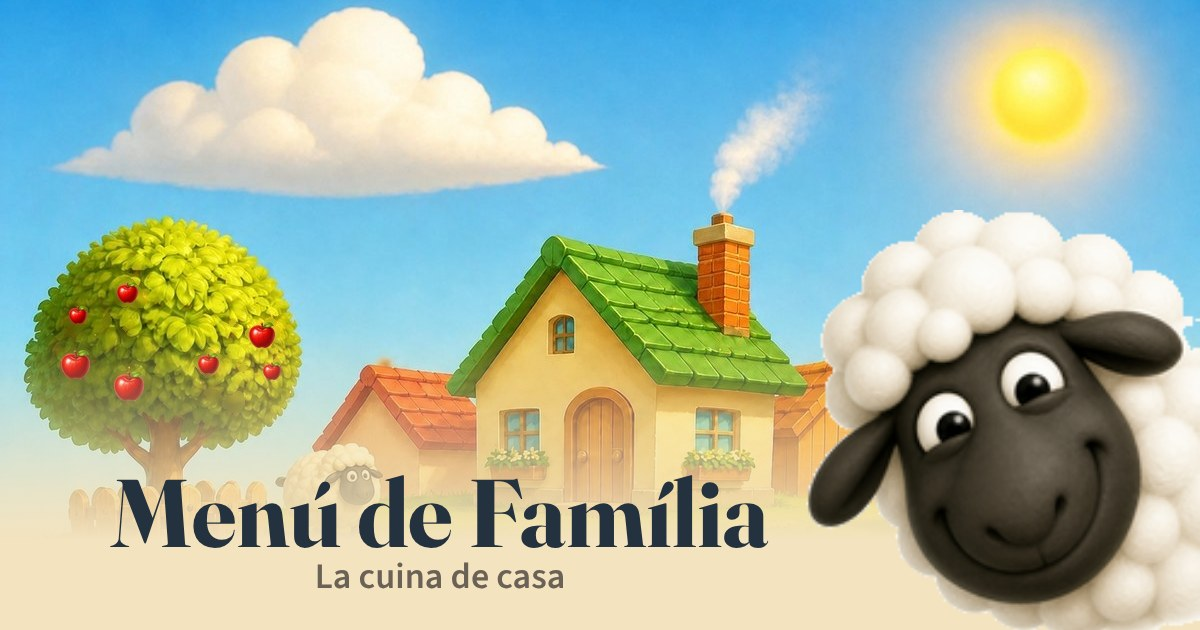
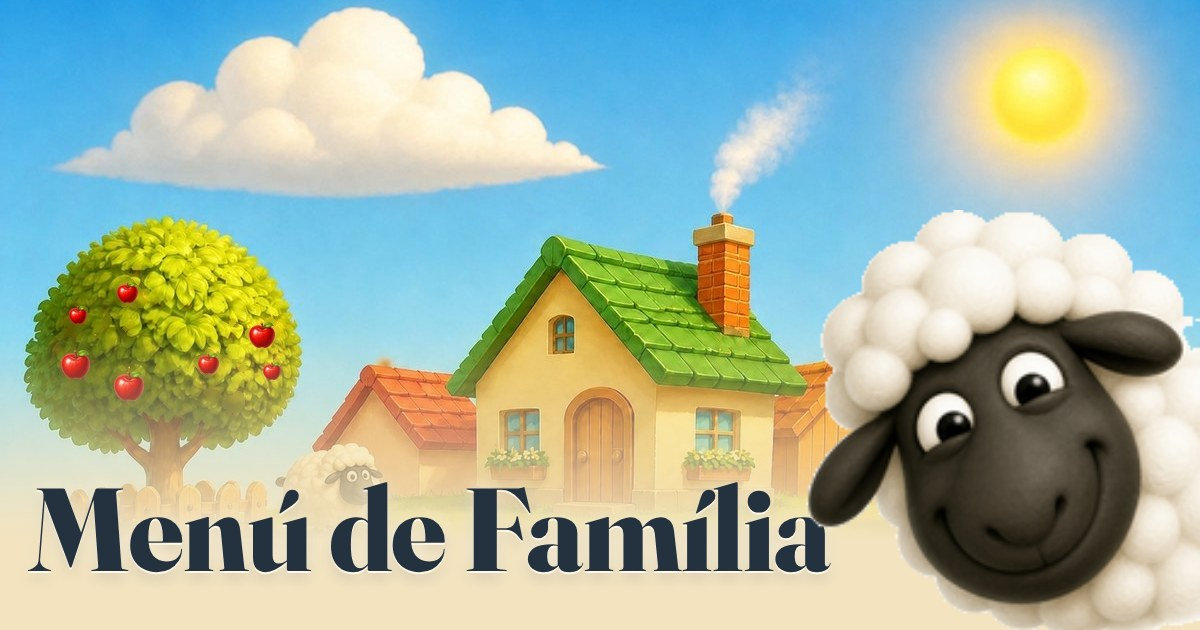
Caràtula de WhatsApp: sense subtítol i títol més gran
Claude-Session: https://claude.ai/code/session_01U8Mmhj3w1kDHbZEJg4YuWh

Changed region(s): [[0.0308, 0.754, 0.7092, 0.9349]]

diff --git a/nova/index.html b/nova/index.html
@@ -480,7 +480,7 @@ html,body{-webkit-touch-callout:none;-webkit-user-select:none;user-select:none;-
 
 <script>/* xarxa de seguretat: si l'app no arrenca, botó per actualitzar */setTimeout(function(){var a=document.getElementById("app");if(a&&!a.innerHTML.trim()){a.innerHTML='<div style="padding:40px 20px;text-align:center;font:600 17px system-ui"><p>No s\'ha pogut obrir l\'app.</p><button id="sosup" style="font:700 17px system-ui;padding:12px 22px;border-radius:999px;border:0;background:#17599a;color:#fff">Actualitza</button></div>';document.getElementById("sosup").onclick=function(){(window.caches?caches.keys().then(function(k){return Promise.all(k.map(function(x){return caches.delete(x)}))}):Promise.resolve()).then(function(){location.reload()})};}},2500);</script>
 <script>
-const APPV="1793450535";let UPD=0,UPS=0;
+const APPV="1793450593";let UPD=0,UPS=0;
 
 const IC={"docs": "<svg viewBox=\"0 0 40 40\" width=\"22\" height=\"22\" aria-hidden=\"true\"><path d=\"M9 4h15l8 8v23a2 2 0 0 1-2 2H9a2 2 0 0 1-2-2V6a2 2 0 0 1 2-2z\" fill=\"#fff\" stroke=\"#5b6b7a\" stroke-width=\"1.5\"/><path d=\"M24 4v8h8\" fill=\"#e3e8ee\" stroke=\"#5b6b7a\" stroke-width=\"1.5\" stroke-linejoin=\"round\"/><circle cx=\"27\" cy=\"29\" r=\"8.5\" fill=\"#3f8a3a\" stroke=\"#fff\" stroke-width=\"1.6\"/><path d=\"M27 33.5v-9M23 28l4-4 4 4\" fill=\"none\" stroke=\"#fff\" stroke-width=\"2.2\" stroke-linecap=\"round\" stroke-linejoin=\"round\"/><path d=\"M12 17h10M12 21h7\" stroke=\"#9aa6b2\" stroke-width=\"1.6\" stroke-linecap=\"round\"/></svg>", "receptari": "<svg viewBox=\"0 0 40 40\" width=\"22\" height=\"22\" aria-hidden=\"true\"><path d=\"M6 7c5-2 10-2 14 1v27c-4-3-9-3-14-1z\" fill=\"#fff6e3\" stroke=\"#8a5a2b\" stroke-width=\"1.4\" stroke-linejoin=\"round\"/><path d=\"M34 7c-5-2-10-2-14 1v27c4-3 9-3 14-1z\" fill=\"#fff6e3\" stroke=\"#8a5a2b\" stroke-width=\"1.4\" stroke-linejoin=\"round\"/><path d=\"M4 9v26c6-2 11-2 16 1 5-3 10-3 16-1V9\" fill=\"none\" stroke=\"#c8352b\" stroke-width=\"2.4\" stroke-linejoin=\"round\"/><path d=\"M10 14h6M10 18h6M24 14h6M24 18h5\" stroke=\"#c9a46a\" stroke-width=\"1.5\" stroke-linecap=\"round\"/><path d=\"M27 24c0-2 3-2 3 0 0 2-3 3.5-3 3.5s-3-1.5-3-3.5c0-2 3-2 3 0z\" fill=\"#e0533f\"/></svg>", "menu": "<svg viewBox=\"0 0 40 40\" width=\"22\" height=\"22\" aria-hidden=\"true\"><rect x=\"5\" y=\"7\" width=\"30\" height=\"28\" rx=\"3\" fill=\"#fff\" stroke=\"#2f74b5\" stroke-width=\"1.5\"/><path d=\"M5 10a3 3 0 0 1 3-3h24a3 3 0 0 1 3 3v4H5z\" fill=\"#2f74b5\"/><path d=\"M12 4v6M28 4v6\" stroke=\"#1f4f80\" stroke-width=\"2.2\" stroke-linecap=\"round\"/><circle cx=\"20\" cy=\"25\" r=\"6.5\" fill=\"#f3e3c4\" stroke=\"#c9a46a\" stroke-width=\"1.3\"/><circle cx=\"20\" cy=\"25\" r=\"3.8\" fill=\"#fff\" stroke=\"#e2cfa6\" stroke-width=\"1\"/><path d=\"M10.5 20v10M9 20v3.5a1.5 1.5 0 0 0 3 0V20M29.5 20c1.6 0 1.8 3 1.8 4.6 0 1-.8 1.4-1.8 1.4V30\" fill=\"none\" stroke=\"#8a93a0\" stroke-width=\"1.2\" stroke-linecap=\"round\"/></svg>", "treball": "<svg viewBox=\"0 0 40 40\" width=\"22\" height=\"22\" aria-hidden=\"true\"><rect x=\"8\" y=\"6\" width=\"24\" height=\"30\" rx=\"3\" fill=\"#c98a4b\" stroke=\"#7a4a1e\" stroke-width=\"1.4\"/><rect x=\"11\" y=\"10\" width=\"18\" height=\"23\" rx=\"1.5\" fill=\"#fff\"/><rect x=\"15\" y=\"3.5\" width=\"10\" height=\"5\" rx=\"1.5\" fill=\"#9aa0a6\" stroke=\"#6b7177\" stroke-width=\"1\"/><path d=\"M14 16l2 2 3.5-3.5M14 23l2 2 3.5-3.5\" fill=\"none\" stroke=\"#3f8a3a\" stroke-width=\"1.9\" stroke-linecap=\"round\" stroke-linejoin=\"round\"/><path d=\"M22 17h5M22 24h5M14 29.5h13\" stroke=\"#b9bfc6\" stroke-width=\"1.6\" stroke-linecap=\"round\"/></svg>", "despesa": "<svg viewBox=\"0 0 40 40\" width=\"22\" height=\"22\" aria-hidden=\"true\"><path d=\"M8 4h20v31l-2.5-2-2.5 2-2.5-2-2.5 2-2.5-2-2.5 2-2.5-2L8 35z\" fill=\"#fff\" stroke=\"#7a838b\" stroke-width=\"1.4\" stroke-linejoin=\"round\"/><path d=\"M12 10h12M12 14h9M12 18h12\" stroke=\"#b9bfc6\" stroke-width=\"1.6\" stroke-linecap=\"round\"/><circle cx=\"27\" cy=\"27\" r=\"8\" fill=\"#f2c14a\" stroke=\"#c48a1a\" stroke-width=\"1.5\"/><path d=\"M29.6 23.6a4 4 0 1 0 0 6.8M22.8 25.8h5.4M22.8 28.2h5.4\" fill=\"none\" stroke=\"#8a5a10\" stroke-width=\"1.6\" stroke-linecap=\"round\"/></svg>", "hudsilo": "<svg aria-hidden=\"true\" width=\"30\" height=\"30\" viewBox=\"0 0 64 64\"><defs><linearGradient id=\"hsr\" x1=\"0\" x2=\"1\"><stop offset=\"0\" stop-color=\"#8f1a12\"/><stop offset=\".28\" stop-color=\"#d8392a\"/><stop offset=\".55\" stop-color=\"#e9503d\"/><stop offset=\"1\" stop-color=\"#9e2016\"/></linearGradient><linearGradient id=\"hsroof\" x1=\"0\" x2=\"1\"><stop offset=\"0\" stop-color=\"#3f3029\"/><stop offset=\".45\" stop-color=\"#7b6556\"/><stop offset=\"1\" stop-color=\"#4a3a31\"/></linearGradient><linearGradient id=\"hsgr\" x1=\"0\" y1=\"0\" x2=\"0\" y2=\"1\"><stop offset=\"0\" stop-color=\"#f7d36a\"/><stop offset=\".25\" stop-color=\"#e3a43a\"/><stop offset=\"1\" stop-color=\"#b8711e\"/></linearGradient><linearGradient id=\"hsmet\" x1=\"0\" x2=\"1\"><stop offset=\"0\" stop-color=\"#5d666e\"/><stop offset=\".5\" stop-color=\"#b9c2ca\"/><stop offset=\"1\" stop-color=\"#626b73\"/></linearGradient><linearGradient id=\"hsst\" x1=\"0\" y1=\"0\" x2=\"0\" y2=\"1\"><stop offset=\"0\" stop-color=\"#e4d8c6\"/><stop offset=\"1\" stop-color=\"#a99880\"/></linearGradient></defs><ellipse cx=\"32\" cy=\"58.5\" rx=\"17\" ry=\"4.2\" fill=\"url(#hsst)\" stroke=\"#7d6c56\" stroke-width=\"1.2\"/><path d=\"M17 17h30l-2.6 40.6c-6.2 2.2-18.6 2.2-24.8 0z\" fill=\"url(#hsr)\" stroke=\"#5f130c\" stroke-width=\"1.5\" stroke-linejoin=\"round\"/><path d=\"M22.4 18.5l1 40M27.6 18.6l.4 40.6M32.8 18.6v40.8M38 18.6l-.4 40.6M43.2 18.5l-1 40\" stroke=\"#7d160e\" stroke-width=\"1\" opacity=\".75\"/><path d=\"M20.2 18.8l1.6 38.4\" stroke=\"#f47b66\" stroke-width=\"1.6\" opacity=\".7\"/><path d=\"M17.3 27.5c8.6 2.8 20.8 2.8 29.4 0M18.3 44c8 2.6 19.4 2.6 27.4 0\" fill=\"none\" stroke=\"#5f130c\" stroke-width=\"3.4\" opacity=\".35\"/><path d=\"M17.3 27c8.6 2.8 20.8 2.8 29.4 0M18.3 43.5c8 2.6 19.4 2.6 27.4 0\" fill=\"none\" stroke=\"#fbf6ee\" stroke-width=\"2.4\"/><path d=\"M28.4 21.5h7.2l-1.2 33h-4.8z\" fill=\"#fbf6ee\" stroke=\"#6b1a10\" stroke-width=\"1\"/><path d=\"M29.9 23.2h4.2l-1 29.6h-2.2z\" fill=\"#5d120b\"/><path d=\"M30.4 36.5h3.4l-.7 16.3h-2.2z\" fill=\"url(#hsgr)\"/><path d=\"M30.2 37c.3-4.4 3.5-4.4 3.8 0z\" fill=\"#f7d36a\" stroke=\"#c48a26\" stroke-width=\".5\"/><circle cx=\"31.4\" cy=\"34.8\" r=\".5\" fill=\"#fff3c4\"/><circle cx=\"32.8\" cy=\"35.6\" r=\".4\" fill=\"#fff3c4\"/><path d=\"M19.5 41l-2.6.6.4 14.8M44.5 41l2.6.6-.4 14.8\" fill=\"none\" stroke=\"url(#hsmet)\" stroke-width=\"2.4\" stroke-linecap=\"round\" stroke-linejoin=\"round\"/><rect x=\"15.6\" y=\"55.3\" width=\"3.4\" height=\"2\" rx=\".6\" fill=\"#7d868f\" stroke=\"#3f464c\" stroke-width=\".6\"/><rect x=\"45\" y=\"55.3\" width=\"3.4\" height=\"2\" rx=\".6\" fill=\"#7d868f\" stroke=\"#3f464c\" stroke-width=\".6\"/><path d=\"M46 21.4h4.4v3.4\" fill=\"none\" stroke=\"url(#hsmet)\" stroke-width=\"2.2\" stroke-linecap=\"round\"/><path d=\"M50.4 24.8c1.4 4 .6 8 -1 10\" fill=\"none\" stroke=\"#a87c4f\" stroke-width=\".9\"/><path d=\"M32 3.5 14.2 17.4c5 2.4 30.6 2.4 35.6 0z\" fill=\"url(#hsroof)\" stroke=\"#2a201b\" stroke-width=\"1.5\" stroke-linejoin=\"round\"/><path d=\"M32 4.4l-7.6 13.8M32 4.4l7.2 13.8\" stroke=\"#8d7766\" stroke-width=\".8\" opacity=\".6\"/><path d=\"M21.6 11l6.2-2.2 2.4 4.2-6.4 2.2z\" fill=\"#d3d9de\" stroke=\"#5f676e\" stroke-width=\"1\"/><path d=\"M24.4 11.6l2.4-.8\" stroke=\"#5f676e\" stroke-width=\"1\" stroke-linecap=\"round\"/></svg>", "shopico": "<svg aria-hidden=\"true\" width=\"34\" height=\"34\" viewBox=\"0 0 64 64\"><defs><linearGradient id=\"bw\" x1=\"0\" x2=\"0\" y1=\"0\" y2=\"1\"><stop offset=\"0\" stop-color=\"#9c5f30\"/><stop offset=\"1\" stop-color=\"#6a3b19\"/></linearGradient><linearGradient id=\"bp\" x1=\"0\" x2=\"1\"><stop offset=\"0\" stop-color=\"#6f4120\"/><stop offset=\".5\" stop-color=\"#a86a35\"/><stop offset=\"1\" stop-color=\"#6f4120\"/></linearGradient><linearGradient id=\"bc\" x1=\"0\" x2=\"0\" y1=\"0\" y2=\"1\"><stop offset=\"0\" stop-color=\"#e4b47a\"/><stop offset=\"1\" stop-color=\"#b9824a\"/></linearGradient><linearGradient id=\"bcin\" x1=\"0\" x2=\"0\" y1=\"0\" y2=\"1\"><stop offset=\"0\" stop-color=\"#7a4a24\"/><stop offset=\"1\" stop-color=\"#a86e3c\"/></linearGradient><linearGradient id=\"awr\" x1=\"0\" x2=\"0\" y1=\"0\" y2=\"1\"><stop offset=\"0\" stop-color=\"#f05a48\"/><stop offset=\"1\" stop-color=\"#c62a20\"/></linearGradient><linearGradient id=\"aww\" x1=\"0\" x2=\"0\" y1=\"0\" y2=\"1\"><stop offset=\"0\" stop-color=\"#ffffff\"/><stop offset=\"1\" stop-color=\"#e9ddd0\"/></linearGradient><radialGradient id=\"ar\" cx=\".35\" cy=\".35\" r=\".7\"><stop offset=\"0\" stop-color=\"#ff8a7a\"/><stop offset=\".5\" stop-color=\"#e3261c\"/><stop offset=\"1\" stop-color=\"#9c120c\"/></radialGradient><radialGradient id=\"ag\" cx=\".35\" cy=\".35\" r=\".7\"><stop offset=\"0\" stop-color=\"#d9ff9a\"/><stop offset=\".5\" stop-color=\"#6cc43a\"/><stop offset=\"1\" stop-color=\"#2f7a1a\"/></radialGradient><linearGradient id=\"bk\" x1=\"0\" x2=\"1\"><stop offset=\"0\" stop-color=\"#7a4a24\"/><stop offset=\".5\" stop-color=\"#c0814a\"/><stop offset=\"1\" stop-color=\"#7a4a24\"/></linearGradient></defs><path d=\"M4 50l10-5h40l4 6-10 7H8z\" fill=\"url(#bw)\" stroke=\"#3f230e\" stroke-width=\"1.3\" stroke-linejoin=\"round\"/><path d=\"M12 47l-3 9M20 46l-3 11M28 46l-2 12M36 46l-1 12M44 46l1 12M52 47l2 9\" stroke=\"#4a2a12\" stroke-width=\".9\" opacity=\".7\"/><rect x=\"49\" y=\"12\" width=\"3.6\" height=\"40\" rx=\"1\" fill=\"url(#bp)\" stroke=\"#3f230e\" stroke-width=\"1.1\"/><rect x=\"13.2\" y=\"18\" width=\"3.4\" height=\"28\" rx=\"1\" fill=\"url(#bp)\" stroke=\"#3f230e\" stroke-width=\"1.1\"/><path d=\"M16 40h32v9H17z\" fill=\"#a8622e\" stroke=\"#4a2a12\" stroke-width=\"1.1\"/><path d=\"M17 44.5h31\" stroke=\"#7a431c\" stroke-width=\".9\"/><path d=\"M13 37.5l34-5 4 7.6-35 5.4z\" fill=\"#f1dfbd\" stroke=\"#6b3f17\" stroke-width=\"1.1\" stroke-linejoin=\"round\"/><path d=\"M15 36.5l31.6-4.8 3 6-32 4.9z\" fill=\"url(#bc)\" stroke=\"#5e3614\" stroke-width=\"1.1\" stroke-linejoin=\"round\"/><path d=\"M18.4 37.6l9-1.4 1 2.6-9 1.4zM29.4 35.9l9-1.4 1 2.6-9 1.4zM40.2 34.3l6-.9 1.1 2.6-6.1.9zM19.6 39.9l9-1.4.9 1.4-9 1.4zM30.6 38.2l9-1.4.9 1.4-9 1.4z\" fill=\"url(#bcin)\"/><path d=\"M27.4 36.2l2.1 4.3M38.4 34.5l2 4.3\" stroke=\"#5e3614\" stroke-width=\"1.2\"/><path d=\"M8.5 15.5C14 9 38 5.5 54 9.5l1.6 5\" fill=\"none\" stroke=\"#7a1e14\" stroke-width=\"1.4\"/><path d=\"M8.5 15.5 10 24.5c2.4 2 5.2 1.6 6.4-.6 2.2 2.1 5 1.8 6.3-.5 2.2 2 5 1.7 6.2-.6 2.2 2 5 1.6 6.2-.6 2.2 1.9 5 1.6 6.1-.7 2.2 1.9 4.9 1.5 6-.8 2.1 1.7 4.7 1.3 5.6-1L54 9.5C38 5.5 14 9 8.5 15.5z\" fill=\"url(#aww)\" stroke=\"#7a1e14\" stroke-width=\"1.4\" stroke-linejoin=\"round\"/><path d=\"M10 24.5c2.4 2 5.2 1.6 6.4-.6l-1.4-11.6-6.5 3.2zM22.7 23.4c2.2 2 5 1.7 6.2-.6l-1.2-13-6.7 1.4zM35.1 22.2c2.2 1.9 5 1.6 6.1-.7l-.6-13.1-6.6.4zM47.2 20.7c2.1 1.7 4.7 1.3 5.6-1L54 9.5l-6.4-1.1z\" fill=\"url(#awr)\"/><path d=\"M10.5 16.4c8-4.2 28-6 42.4-3.4\" fill=\"none\" stroke=\"#fff\" stroke-width=\"1\" opacity=\".55\"/><circle cx=\"31\" cy=\"7.3\" r=\"1.3\" fill=\"#a9b2ba\" stroke=\"#5f676e\" stroke-width=\".6\"/><circle cx=\"53.6\" cy=\"9.6\" r=\"1.3\" fill=\"#a9b2ba\" stroke=\"#5f676e\" stroke-width=\".6\"/><path d=\"M2.5 48.5h12l-1.4 9.5H4z\" fill=\"url(#bk)\" stroke=\"#4a2a12\" stroke-width=\"1.1\"/><path d=\"M3.2 52.3h10.6\" stroke=\"#9aa3ab\" stroke-width=\"1.6\"/><circle cx=\"5.6\" cy=\"47.2\" r=\"2.6\" fill=\"url(#ag)\"/><circle cx=\"9.4\" cy=\"46.4\" r=\"2.7\" fill=\"url(#ag)\"/><circle cx=\"12.3\" cy=\"47.6\" r=\"2.3\" fill=\"url(#ag)\"/><path d=\"M47 51.5h12l-1.4 9.5h-9.2z\" fill=\"url(#bk)\" stroke=\"#4a2a12\" stroke-width=\"1.1\"/><path d=\"M47.7 55.3h10.6\" stroke=\"#9aa3ab\" stroke-width=\"1.6\"/><circle cx=\"50.2\" cy=\"50.2\" r=\"2.6\" fill=\"url(#ar)\"/><circle cx=\"54\" cy=\"49.4\" r=\"2.7\" fill=\"url(#ar)\"/><circle cx=\"56.8\" cy=\"50.6\" r=\"2.3\" fill=\"url(#ar)\"/><path d=\"M54 46.8l.4-1.4\" stroke=\"#4a2a12\" stroke-width=\".8\"/></svg>", "veiico": "<svg aria-hidden=\"true\" width=\"32\" height=\"32\" viewBox=\"0 0 64 64\"><path d=\"M2 47c10-5 21-6 30-4s20 3 30-2v19H2z\" fill=\"#7fb944\"/><g stroke=\"#6b4423\" stroke-width=\"1.8\" stroke-linejoin=\"round\"><rect x=\"5\" y=\"32\" width=\"15\" height=\"14\" rx=\"1\" fill=\"#fbf1dc\"/><path d=\"M3 33.5 12.5 22 22 33.5z\" fill=\"#d1453b\"/><rect x=\"44\" y=\"32\" width=\"15\" height=\"14\" rx=\"1\" fill=\"#fbf1dc\"/><path d=\"M42 33.5 51.5 22 61 33.5z\" fill=\"#eaa63a\"/><rect x=\"38\" y=\"15\" width=\"4.5\" height=\"9\" fill=\"#a8562c\"/><rect x=\"19\" y=\"28\" width=\"26\" height=\"21\" rx=\"1.2\" fill=\"#fffaf0\"/><path d=\"M16 30 32 14l16 16z\" fill=\"#6e8c3c\"/><rect x=\"28.5\" y=\"38\" width=\"7\" height=\"11\" rx=\"1\" fill=\"#9a5a2b\"/></g><rect x=\"22.5\" y=\"32\" width=\"4.5\" height=\"4\" fill=\"#8cc7ec\"/><rect x=\"37\" y=\"32\" width=\"4.5\" height=\"4\" fill=\"#8cc7ec\"/></svg>", "crea": "<svg viewBox=\"0 0 40 40\" width=\"22\" height=\"22\" aria-hidden=\"true\"><path d=\"M8 4h15l7 7v24a2 2 0 0 1-2 2H8a2 2 0 0 1-2-2V6a2 2 0 0 1 2-2z\" fill=\"#fff\" stroke=\"#5b6b7a\" stroke-width=\"1.5\"/><path d=\"M23 4v7h7\" fill=\"#e3e8ee\" stroke=\"#5b6b7a\" stroke-width=\"1.5\" stroke-linejoin=\"round\"/><path d=\"M11 15h11M11 19h12M11 23h7\" stroke=\"#9aa6b2\" stroke-width=\"1.6\" stroke-linecap=\"round\"/><path d=\"M20 30 31 19l4 4-11 11z\" fill=\"#eaa63a\" stroke=\"#8a5a2b\" stroke-width=\"1.3\" stroke-linejoin=\"round\"/><path d=\"M31 19l1.6-1.6a1.4 1.4 0 0 1 2 0l2 2a1.4 1.4 0 0 1 0 2L35 23z\" fill=\"#e0533f\" stroke=\"#8a5a2b\" stroke-width=\"1.3\" stroke-linejoin=\"round\"/><path d=\"M20 30l4 4-6 2z\" fill=\"#f3e3c4\" stroke=\"#8a5a2b\" stroke-width=\"1.3\" stroke-linejoin=\"round\"/><path d=\"M18.6 34.4 18 36l1.6-.6z\" fill=\"#3d3d3d\"/></svg>", "qc": "<svg viewBox=\"0 0 40 40\" width=\"22\" height=\"22\" aria-hidden=\"true\"><path d=\"M15.5 19 20.3 7.2l3.3 1.3-3.4 10.8z\" fill=\"#eaa63a\" stroke=\"#a8562c\" stroke-width=\"1.3\" stroke-linejoin=\"round\"/><path d=\"M18 13.5l2 .8M17 16l1.8.7\" stroke=\"#a8562c\" stroke-width=\"1\" stroke-linecap=\"round\"/><path d=\"M21.5 7.6c-.9-2.6.2-4.3 1.6-4.9.6 1.8.4 3.6-.9 5.2zM22.3 8c1.6-2 3.6-2.2 5-1.4-1.3 1.3-3 1.9-5 1.4z\" fill=\"#7fb944\" stroke=\"#4f7a2a\" stroke-width=\"1\" stroke-linejoin=\"round\"/><path d=\"M25.5 19c-.3-4.2 1.9-7.2 5.6-8.4-.1 3.8-2 6.8-5.6 8.4z\" fill=\"#7fb944\" stroke=\"#4f7a2a\" stroke-width=\"1.2\" stroke-linejoin=\"round\"/><path d=\"M7 20h26v8a7 7 0 0 1-7 7H14a7 7 0 0 1-7-7z\" fill=\"#d8392a\" stroke=\"#8f1a12\" stroke-width=\"1.5\" stroke-linejoin=\"round\"/><path d=\"M4.5 19.5h31\" stroke=\"#8f1a12\" stroke-width=\"2.6\" stroke-linecap=\"round\"/><path d=\"M7 23.5H3.5M33 23.5h3.5\" stroke=\"#8f1a12\" stroke-width=\"2.4\" stroke-linecap=\"round\"/><path d=\"M11 24v4.5\" stroke=\"#f08a7a\" stroke-width=\"1.8\" stroke-linecap=\"round\"/></svg>", "casa": "<svg viewBox=\"0 0 40 40\" width=\"22\" height=\"22\" aria-hidden=\"true\"><ellipse cx=\"20\" cy=\"37.2\" rx=\"14\" ry=\"1.6\" fill=\"#000\" opacity=\".13\"/><path d=\"M7 19 20 7l13 12v17H7z\" fill=\"#f3e3c4\" stroke=\"#7a4a1e\" stroke-width=\"1.3\" stroke-linejoin=\"round\"/><path d=\"M4 20.5 20 5.5l16 15\" fill=\"none\" stroke=\"#c8352b\" stroke-width=\"3.4\" stroke-linecap=\"round\" stroke-linejoin=\"round\"/><rect x=\"26\" y=\"8\" width=\"4\" height=\"7\" fill=\"#9b5a2b\"/><rect x=\"16.5\" y=\"25\" width=\"7\" height=\"11\" rx=\"1\" fill=\"#9b5a2b\"/><path d=\"M14 21.5a3 3 0 0 1 6 0c0 2.6-3 4.4-3 4.4s-3-1.8-3-4.4zM20 21.5a3 3 0 0 1 6 0c0 2.6-3 4.4-3 4.4\" fill=\"none\"/><path d=\"M17.2 18.6c-1.6-1.6-4.2-.2-3.6 2 .5 1.8 3.6 3.6 3.6 3.6s3.1-1.8 3.6-3.6c.6-2.2-2-3.6-3.6-2z\" fill=\"#e0533f\" transform=\"translate(2.8 -1.2)\"/></svg>", "graner": "<svg viewBox=\"0 0 40 40\" width=\"22\" height=\"22\" aria-hidden=\"true\"><ellipse cx=\"20\" cy=\"37.2\" rx=\"15\" ry=\"1.6\" fill=\"#000\" opacity=\".13\"/><path d=\"M6 17.5 9.5 9.5 20 4.5 30.5 9.5 34 17.5V36H6z\" fill=\"#c8352b\" stroke=\"#7d1d17\" stroke-width=\"1.1\" stroke-linejoin=\"round\"/><path d=\"M3.5 18.5 8.4 8.2 20 2.8 31.6 8.2 36.5 18.5\" fill=\"none\" stroke=\"#2f3236\" stroke-width=\"3.2\" stroke-linecap=\"round\" stroke-linejoin=\"round\"/><path d=\"M9 21h22\" stroke=\"#fff\" stroke-width=\"1.6\"/><path d=\"M10 12.4 9.6 13\" stroke=\"#a52a22\" stroke-width=\".8\"/><path d=\"M12 24v12M28 24v12\" stroke=\"#a52a22\" stroke-width=\".8\" opacity=\".7\"/><rect x=\"16.5\" y=\"9.8\" width=\"7\" height=\"6.4\" fill=\"#fff\" stroke=\"#7d1d17\" stroke-width=\".6\"/><path d=\"M16.5 9.8 23.5 16.2M23.5 9.8 16.5 16.2\" stroke=\"#c8352b\" stroke-width=\"1.1\"/><rect x=\"13.5\" y=\"23.5\" width=\"13\" height=\"12.5\" fill=\"#fff\"/><rect x=\"15\" y=\"25\" width=\"10\" height=\"11\" fill=\"#8e2219\"/><path d=\"M15 25 25 36M25 25 15 36\" stroke=\"#fff\" stroke-width=\"1.3\"/><path d=\"M20 25v11\" stroke=\"#fff\" stroke-width=\"1\"/><rect x=\"5.5\" y=\"35.5\" width=\"29\" height=\"1.6\" rx=\".8\" fill=\"#9aa0a6\"/></svg>", "cart": "<svg viewBox=\"0 0 40 40\" width=\"28\" height=\"28\" aria-hidden=\"true\"><path d=\"M3 7h5l4 20h20\" fill=\"none\" stroke=\"#1f4f80\" stroke-width=\"2.4\" stroke-linecap=\"round\" stroke-linejoin=\"round\"/><path d=\"M9.5 12h26l-3 12H12z\" fill=\"#fff\" stroke=\"#2f74b5\" stroke-width=\"1.6\" stroke-linejoin=\"round\"/><path d=\"M15 12.5 18 5.5l3 1.2-2.4 5.8z\" fill=\"#eaa63a\" stroke=\"#a8562c\" stroke-width=\"1.1\" stroke-linejoin=\"round\"/><path d=\"M22 12c.2-3.6 2.2-6 5.4-6.8-.3 3.2-2 5.6-5.4 6.8z\" fill=\"#7fb944\" stroke=\"#4f7a2a\" stroke-width=\"1.1\" stroke-linejoin=\"round\"/><circle cx=\"27\" cy=\"9.5\" r=\"2.6\" fill=\"#d8392a\" stroke=\"#8f1a12\" stroke-width=\"1\"/><path d=\"M15 17h15M14 21h15\" stroke=\"#9aa6b2\" stroke-width=\"1.4\" stroke-linecap=\"round\"/><circle cx=\"14\" cy=\"32\" r=\"2.6\" fill=\"#3d3d3d\"/><circle cx=\"29\" cy=\"32\" r=\"2.6\" fill=\"#3d3d3d\"/></svg>"};
 const PI=n=>`<img class="pi" src="img/${n}.png" alt="" aria-hidden="true">`;Object.assign(IC,{menu:PI("nav_menu"),cart:PI("icona_compra"),receptari:PI("nav_receptari"),despesa:PI("nav_despesa"),crea:PI("nav_crea"),qc:PI("nav_que_cuino"),hudsilo:PI("hud_sitja"),shopico:PI("hud_botiga_37"),veiico:PI("hud_veinat")});
